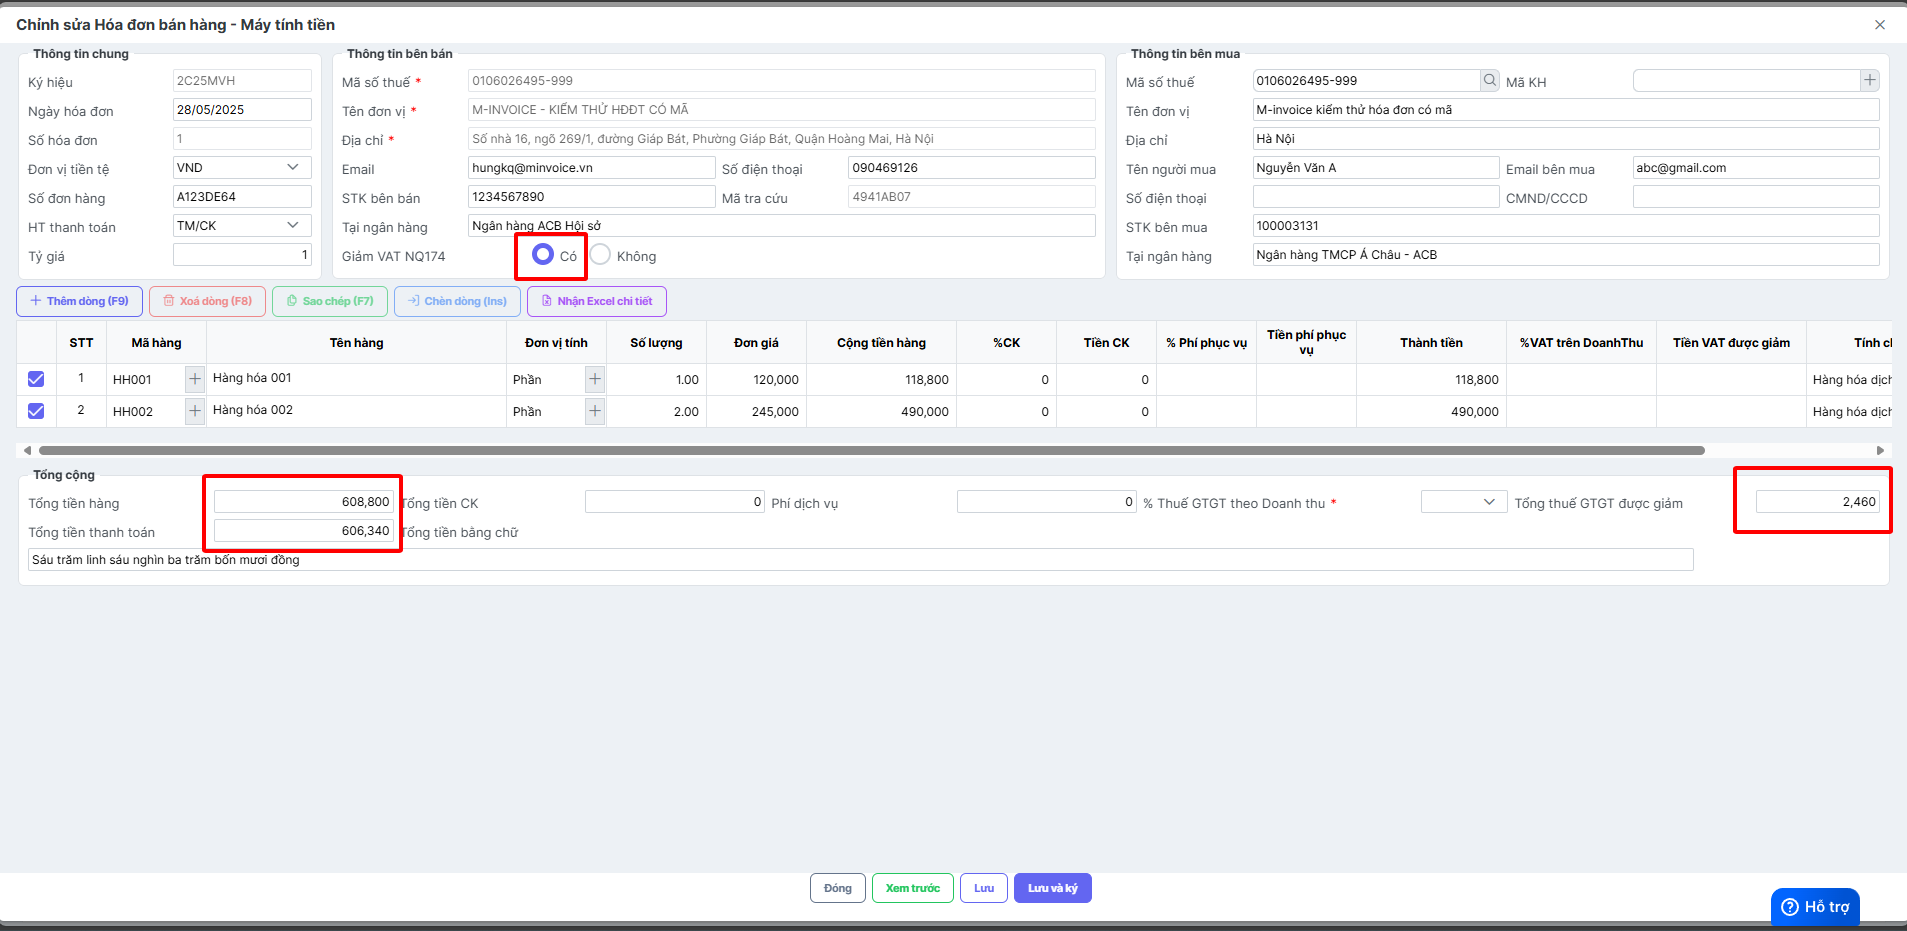
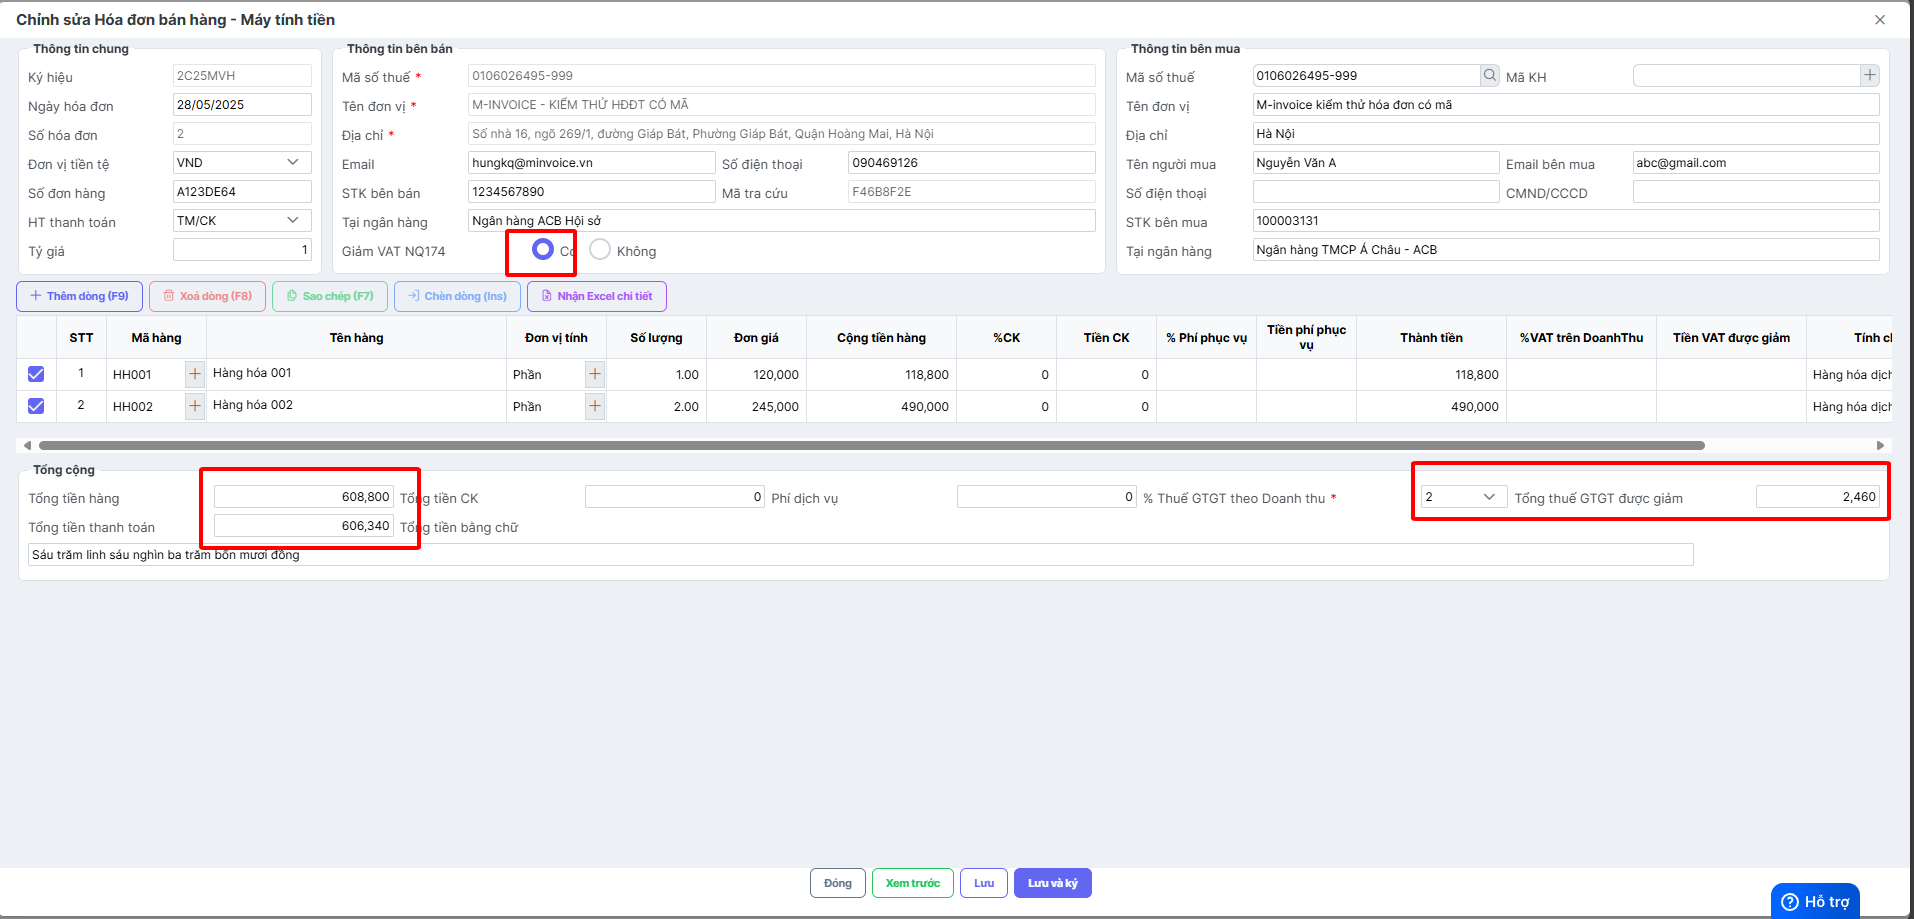
28/05/2025-nq174

diff --git a/docs/setup/ds-don-vi-tich-hop/nqhi-quyet-so-174.md b/docs/setup/ds-don-vi-tich-hop/nqhi-quyet-so-174.md
@@ -152,6 +152,7 @@ Công thức giảm thuế mẫu
       "inv_buyerBankName": "Ngân hàng TMCP Á Châu - ACB",
       "inv_paymentMethodName": "TM/CK",
       "nonTaxZone": 0,
+      "tlptdoanhthu20": 2,
       "isDeductionNQ43": true,
       "tgtck20": 5000,
       "inv_discountAmount": 0,
@@ -195,7 +196,7 @@ Công thức giảm thuế mẫu
 
     ![Hình 1](../../assets/images/tich-hop/nq174-1.png)
 
-??? Note "🔹 Trường hợp 2: Các thông tin trường cần thêm để giảm trên từng dòng hàng"
+??? Note "🔹 Trường hợp 2: Các thông tin trường cần thêm để giảm trên từng dòng hàng (dùng cho các trường hợp hóa đơn có cả hàng hóa giảm và không giảm)"
 
     Các trường thông tin:
     <table border="1" cellpadding="8" cellspacing="0" style="border-collapse: collapse; width: 100%;">
@@ -259,6 +260,7 @@ Công thức giảm thuế mẫu
       "inv_buyerBankName": "Ngân hàng TMCP Á Châu - ACB",
       "inv_paymentMethodName": "TM/CK",
       "nonTaxZone": 0,
+      "tlptdoanhthu20": 2,
       "isDeductionNQ43": true,
       "inv_discountAmount": 0,
       "inv_TotalAmount": 606340,
